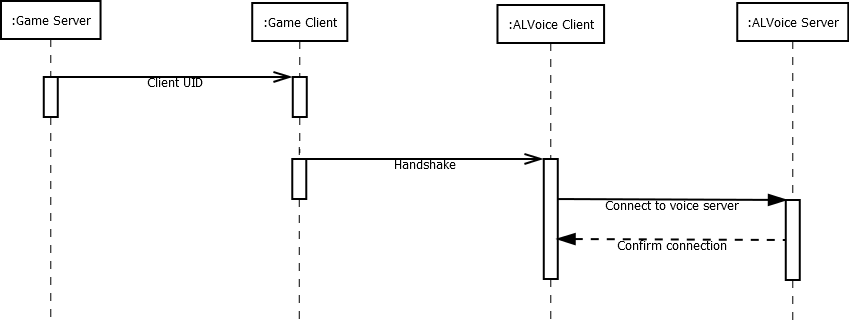
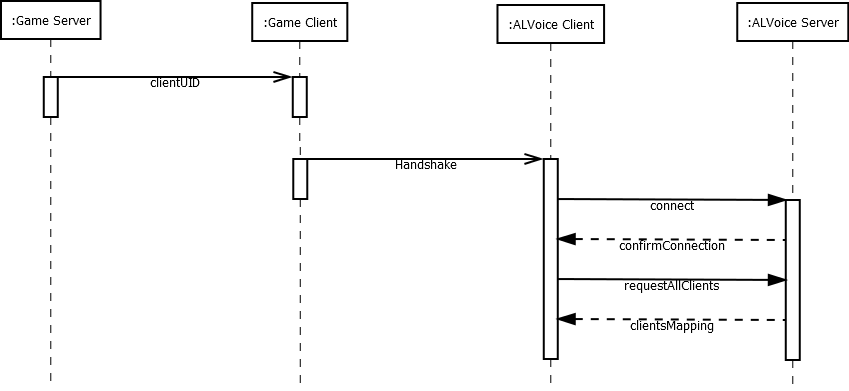
Continue documentation of the communication

diff --git a/docs/communication.md b/docs/communication.md
@@ -16,6 +16,20 @@ The *game client* only talks on connection setup with the *ALVoice client* to gi
 
 ## Connection setup
 
-When the *game client* connects to the *game server* the server tells the client about the needed information (endpoint, client unique identifier) to connect to the *ALVoice server*. The *game client* then sends this information (via the local connection) to the *ALVoice client*. The *ALVoice client* now has all information needed to connect the specific *ALVoice server* which belongs to the *game server*. The *ALVoice client* connects to the *ALVoice server* and the server confirms the connection. With the confirmation the connection setup is **completed**.
+When the *game client* connects to the *game server* the server tells the client about the needed information (endpoint, client unique identifier) to connect to the *ALVoice server*. The *game client* then sends this information (via the local connection) to the *ALVoice client*. The *ALVoice client* now has all information needed to connect the specific *ALVoice server* which belongs to the *game server*. The *ALVoice client* connects to the *ALVoice server* and the server confirms the connection. When the connection was confirmed the client requests the client uid to teamspeak id mapping it needs to change teamspeak clients. With this information the connection setup is **completed**.
 
 ![connection setup](images/connection-setup.png)
+
+## Continues updates
+
+When the *ALVoice client* connection setup is completed it receives continues updates from the *ALVoice server* about changed players. This is the **main message** the complete communication is about.
+
+![continues communication](images/continues-communication.png)
+
+### updatePlayersMessage
+
+The idea is to send as less information as possible but enough that the client can change the needed teamspeak clients. Information required to change a single clients is:
+
+ * Player is in range to be heard
+ * Range to the player to set volume modifier
+ * Stereo position of the player to set audio pan
